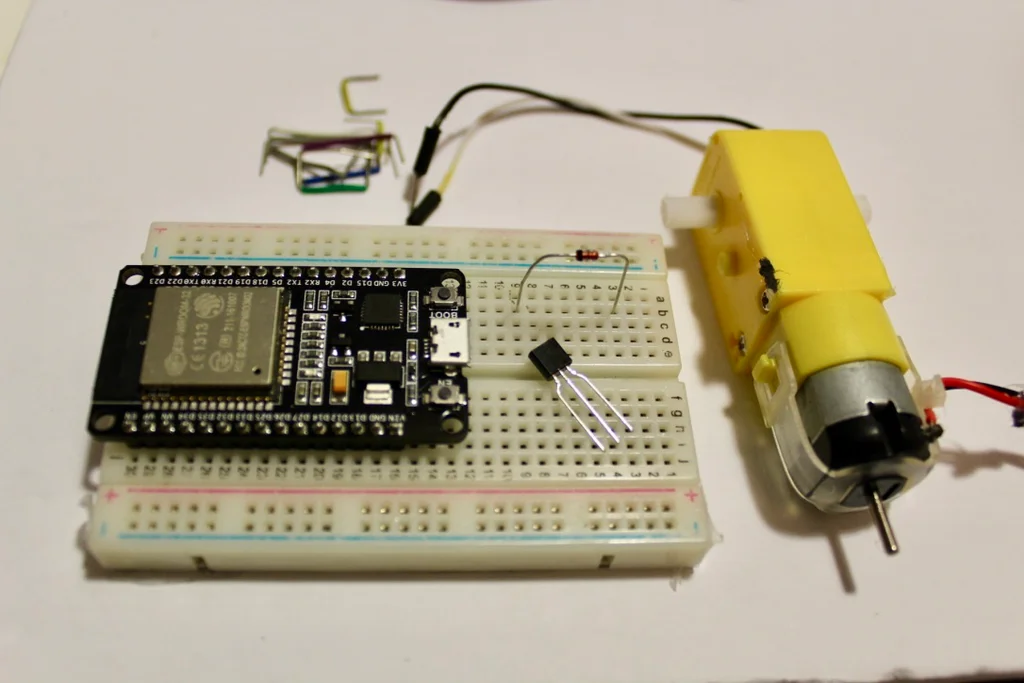
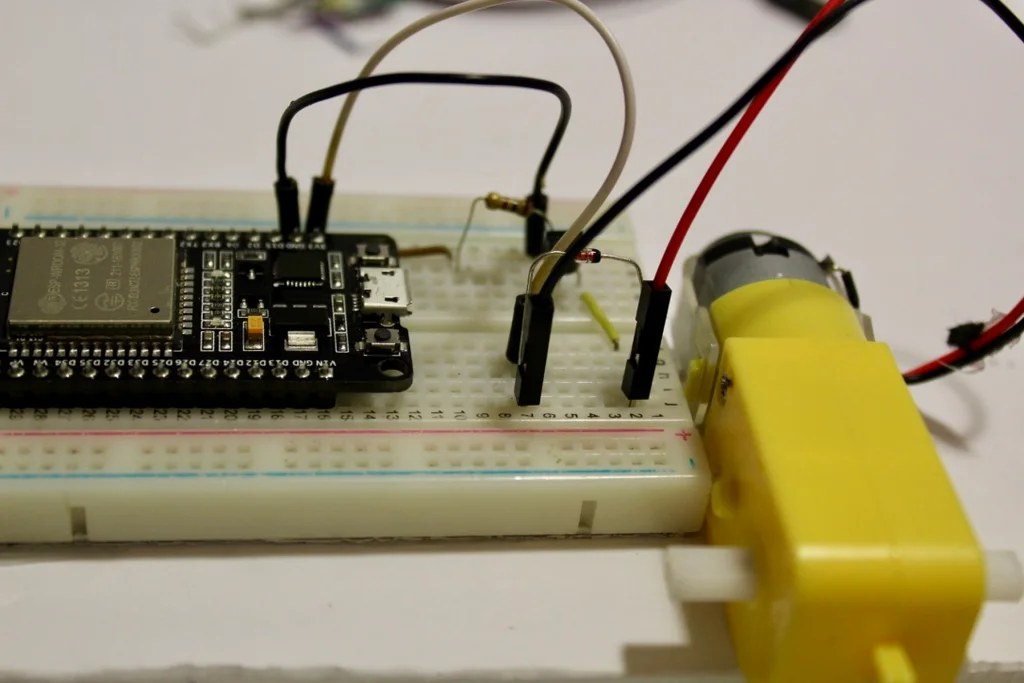
mod 160

diff --git a/content/it/blog/160/index.md b/content/it/blog/160/index.md
@@ -18,16 +18,18 @@ mermaid:       true
 
 Questo è il driver del motore più semplice che potrebbe essere costruito utilizzando un solo transistor NPN, che è controllato e guidato dalla scheda micro controller ESP32.
 
-Fase 1: Materiali e strumenti
-Materiali e strumenti
-Microcontrollore ESP32
-Motore di CC
-Transistor NPN-BC337
-Resistenza 100Ω
-Diodo - N4148 Uso generale
-Fili tagliere
-Breadboard'
+## Materiali e strumenti
+
+- Microcontrollore ESP32
+- Motore di CC
+- Transistor NPN-BC337
+- Resistenza 100Ω
+- Diodo - N4148 Uso generale
+- connettori Dupont
+- Breadboard
 2x ponticello
+
+
 Fase 2: Collegamento del segnale
 Collegamento del segnale
 Collegare una resistenza da 100Ω al pin di base (centrale) del transistor NPN per proteggere la scheda EPS32 da sovratensione, quindi collegarla in serie a D5
